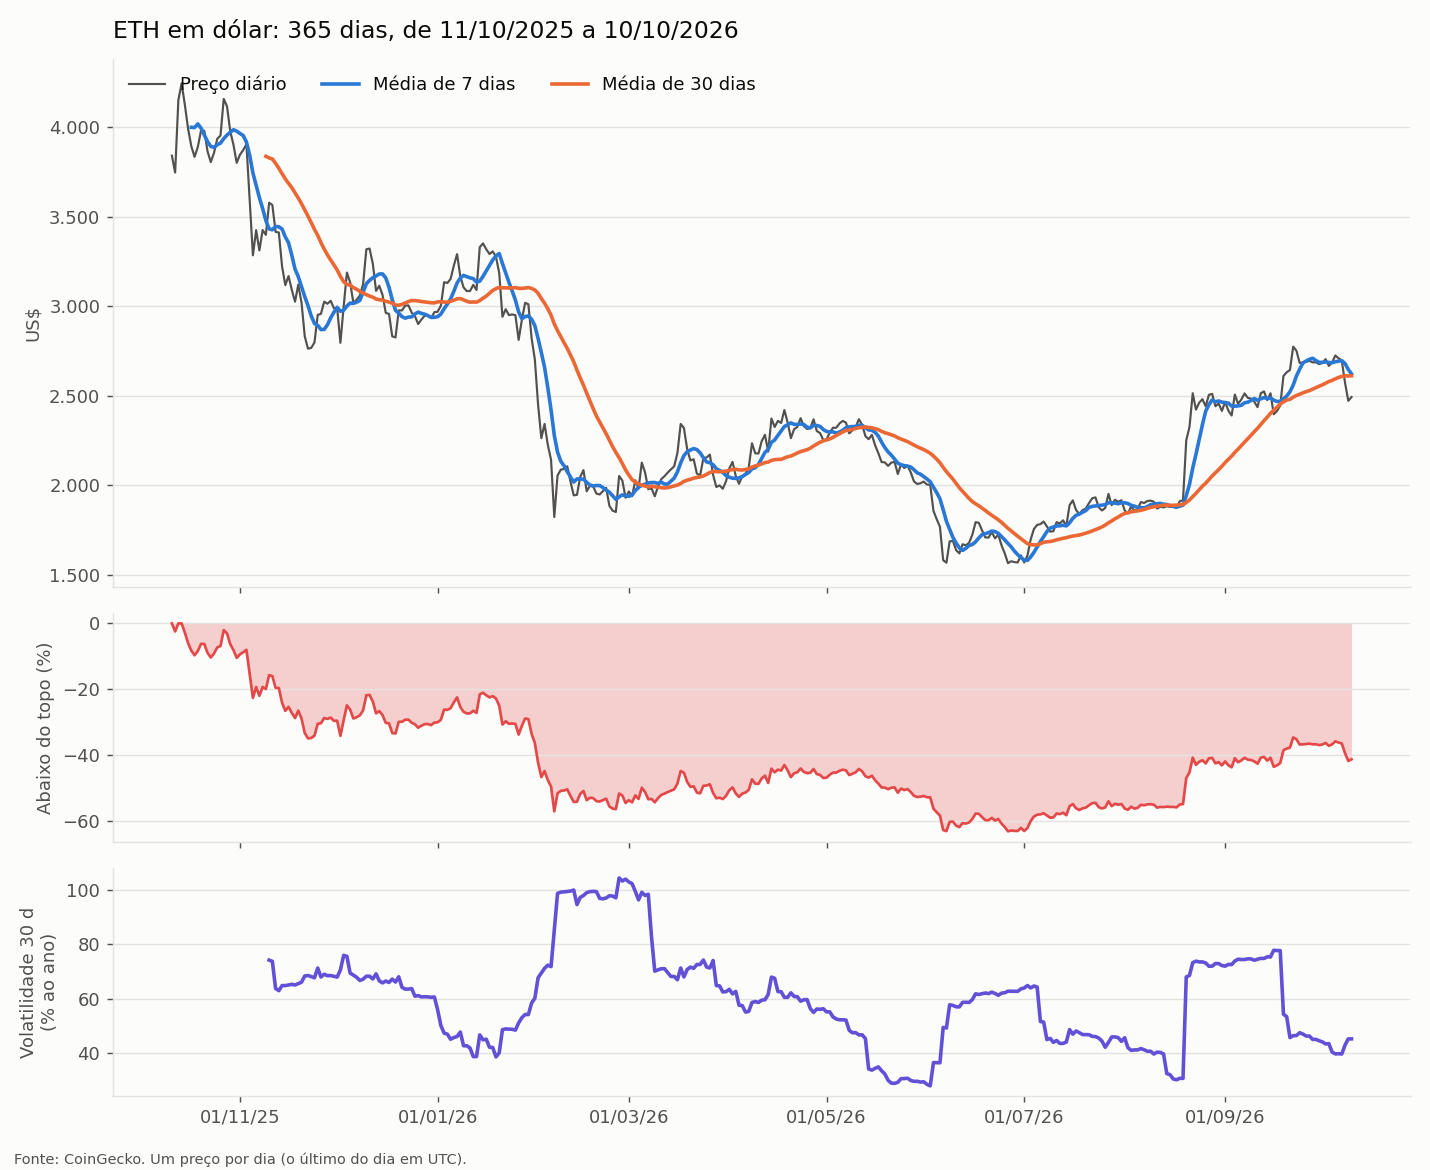
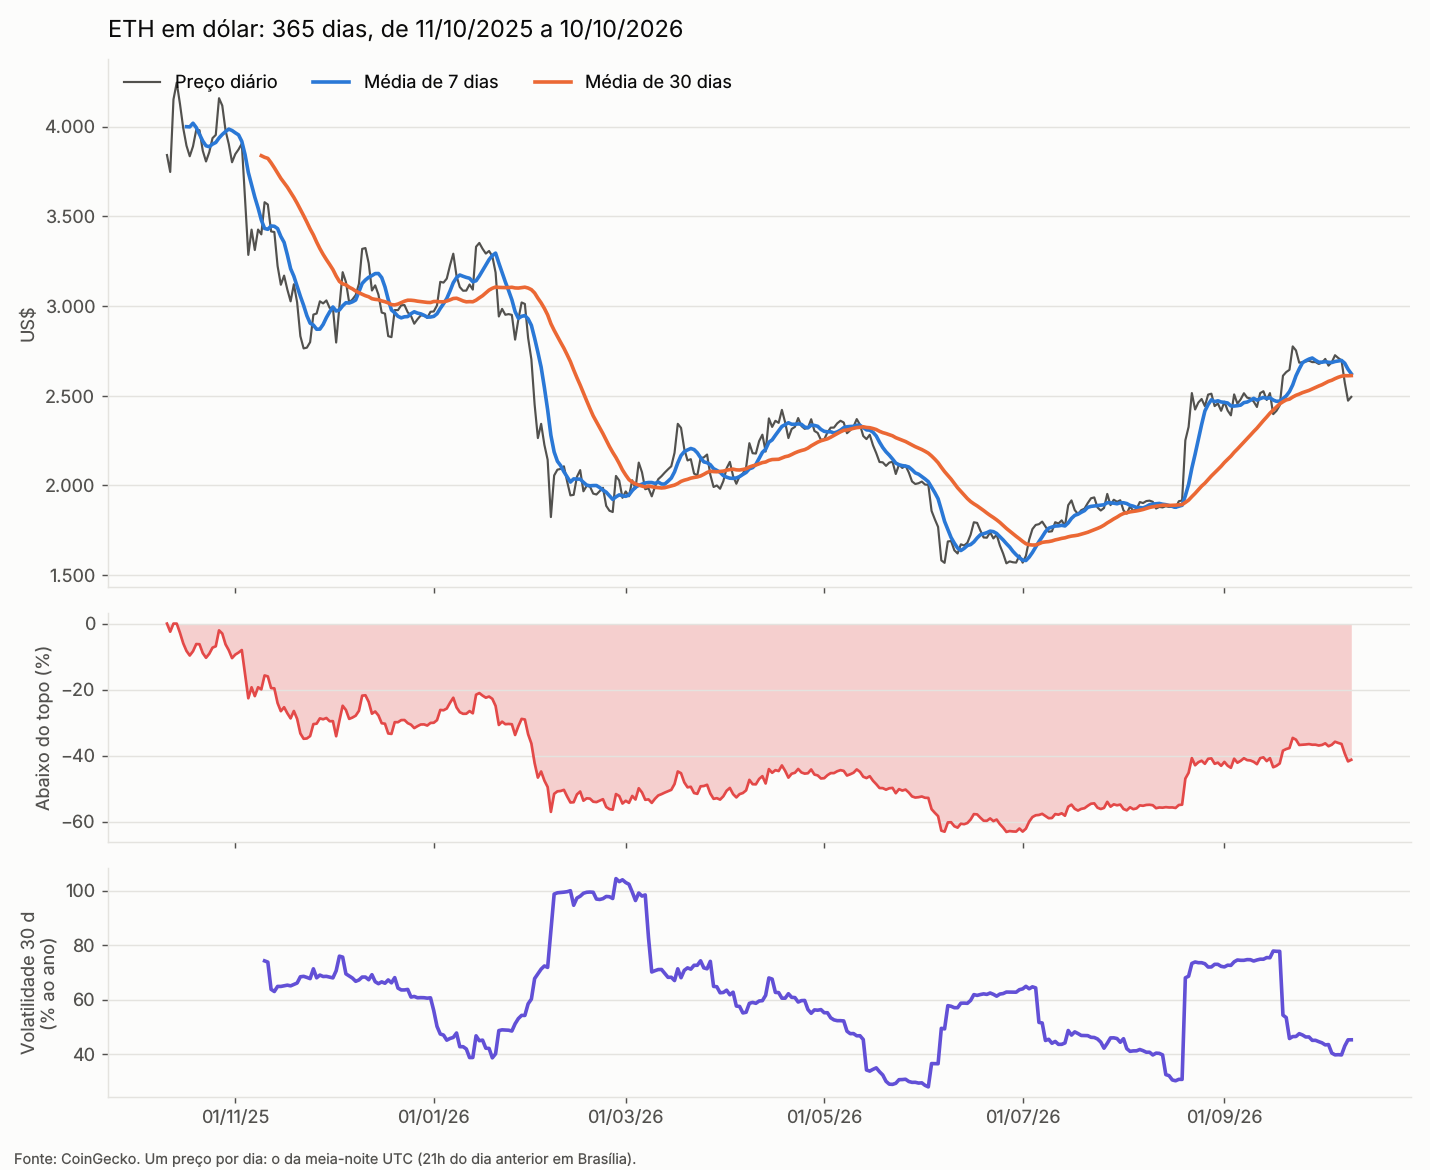
Corrige a explicação da data de cada preço no resumo e no gráfico
O ponto diário da CoinGecko é o da meia-noite UTC (21h do dia anterior em
Brasília), não o último do dia. Os números não mudam; só o texto.

diff --git a/src/02_analise_precos.py b/src/02_analise_precos.py
@@ -51,10 +51,11 @@ def pct(valor, sinal=False):
 
 
 def um_por_dia(tabela):
-    """Fica com um preço por dia (o último daquele dia, em UTC).
+    """Fica com um preço por dia.
 
-    A CoinGecko manda um ponto à meia-noite de cada dia e, no fim, mais um ponto com o
-    preço da hora da chamada. Esse último cai no mesmo dia do anterior e o substitui.
+    A CoinGecko manda um ponto à meia-noite UTC de cada dia (21h do dia anterior em
+    Brasília) e, no fim, mais um ponto com o preço da hora da chamada. Esse último cai no
+    mesmo dia do anterior e o substitui.
     """
     tabela = tabela.copy()
     tabela["data"] = pd.to_datetime(tabela["data_hora_utc"], utc=True).dt.tz_localize(None).dt.normalize()
@@ -119,7 +120,11 @@ def resumo(d, exemplo):
         f"A média curta está {tendencia} da longa (acima costuma indicar alta recente).",
         "",
         "Observações:",
-        "- Um preço por dia: o último daquele dia em UTC (horário de Londres sem verão).",
+        "- Um preço por dia: o da meia-noite UTC, que é 21h do dia anterior em Brasília.",
+        "  No último dia, vale o preço da hora da consulta.",
+        "- Por isso, o retorno marcado num dia mede o que aconteceu no dia anterior",
+        f"  (a maior alta, marcada em {melhor:%d/%m}, aconteceu ao longo de"
+        f" {melhor - pd.Timedelta(days=1):%d/%m}, no horário UTC).",
         "- Volatilidade anualizada = desvio padrão do retorno diário em 30 dias x raiz de 365.",
     ]
     return "\n".join(linhas) + "\n"
@@ -164,7 +169,7 @@ def grafico(d, caminho, exemplo):
     if exemplo:
         titulo = "EXEMPLO (dado fictício)  " + titulo
     ax1.set_title(titulo, loc="left", fontsize=13, pad=12)
-    fig.text(0.01, 0.005, "Fonte: CoinGecko. Um preço por dia (o último do dia em UTC).",
+    fig.text(0.01, 0.005, "Fonte: CoinGecko. Um preço por dia: o da meia-noite UTC (21h do dia anterior em Brasília).",
              color=COR_TEXTO_2, fontsize=8)
     fig.tight_layout(rect=(0, 0.02, 1, 1))
     fig.savefig(caminho, dpi=130, facecolor=COR_FUNDO)
